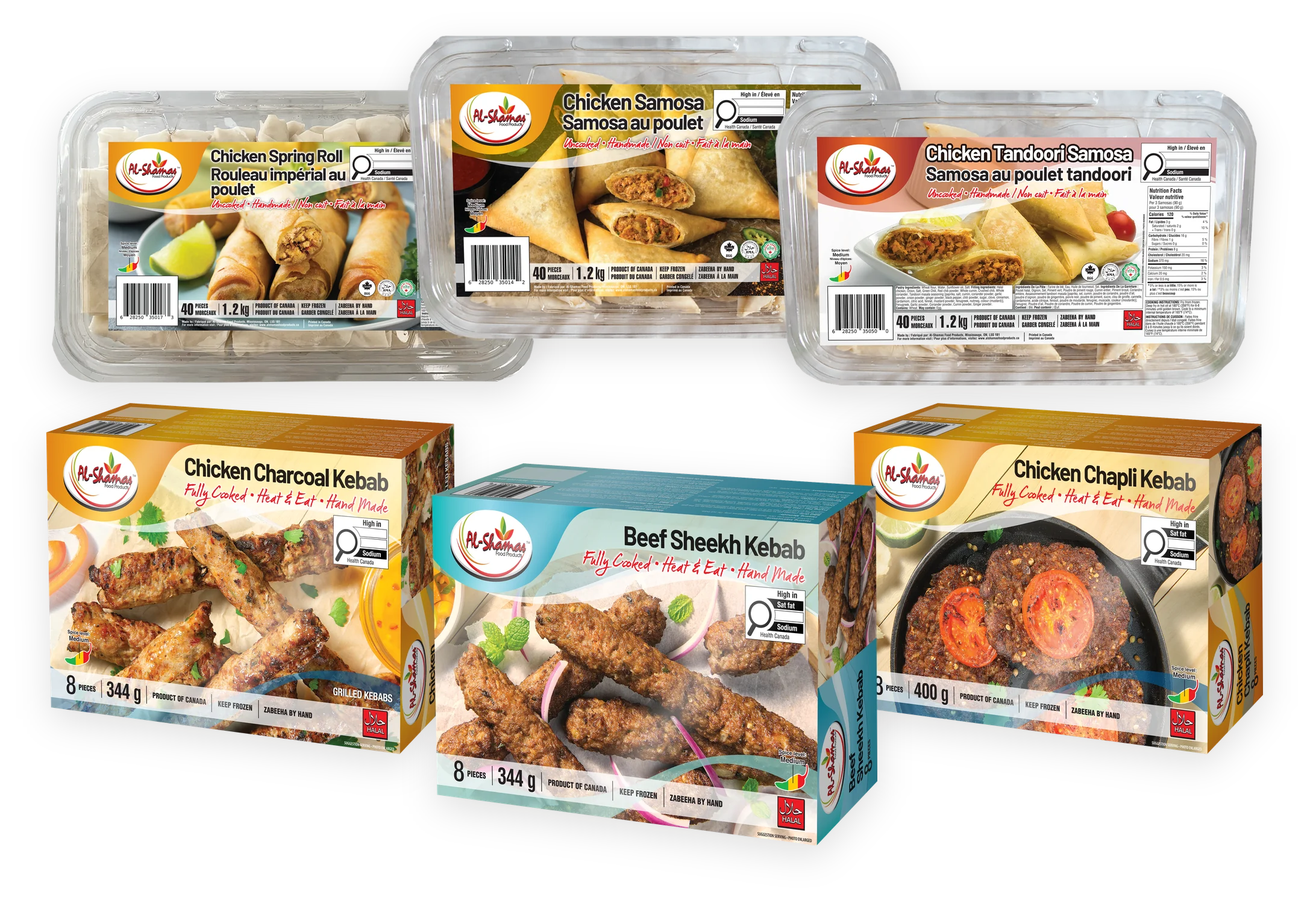
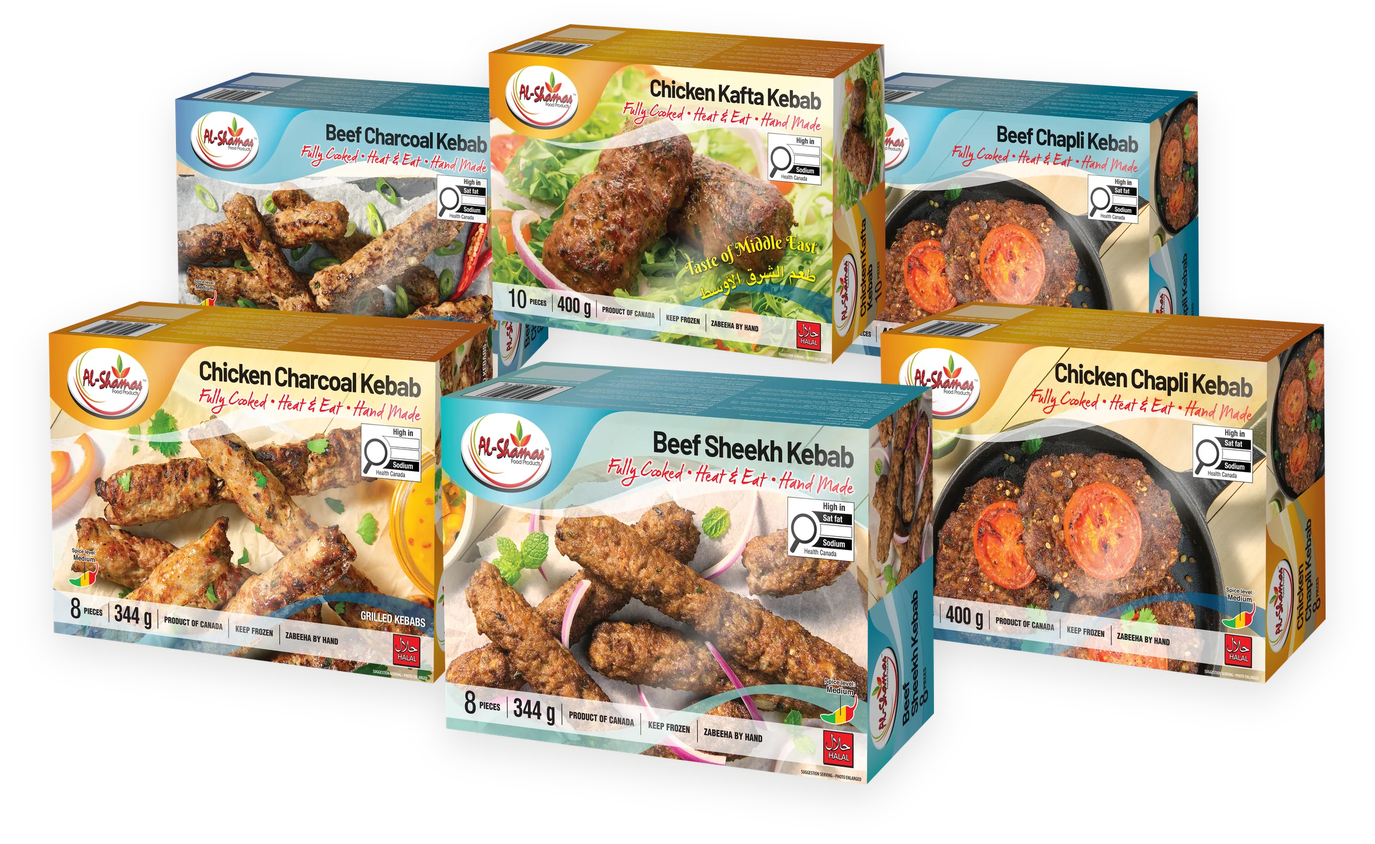
Home: light hero over kebab photo, kebab line-up, best-selling kebabs section
Claude-Session: https://claude.ai/code/session_01Qf9GJqPJBmu5kCAbb7o15f

diff --git a/src/pages/HomePage.tsx b/src/pages/HomePage.tsx
@@ -9,7 +9,7 @@ const DIFFICULTY_FR: Record<string, string> = { Easy: 'Facile', Medium: 'Moyen',
 // ONLY CHANGE: Hero banner now uses homebanner.png from images/products
 // Product line-up composed from the packaging photos (transparent background).
 const HERO_IMAGE = '/images/hero/hero-lineup.webp';
-const HERO_BG = '/images/recipes/chicken-samosa-platter-with-chutneys.jpg';
+const HERO_BG = '/images/recipes/chicken-kebab-rice-platter.jpg';
 
 interface HomePageProps {
   navigate: (path: string) => void;
@@ -48,53 +48,54 @@ const RETAILER_NAMES = [
   'Loblaws',
 ];
 
-const FEATURED_IDS = ['1', '4', '5', '8', '11', '12'];
+// Best sellers: kebabs (confirmed by Al-Shamas).
+const FEATURED_IDS = ['5', '4', '2', '1', '9', '8'];
 
 export default function HomePage({ navigate }: HomePageProps) {
-  const featured = PRODUCTS.filter(p => FEATURED_IDS.includes(p.id));
+  const featured = FEATURED_IDS.map(id => PRODUCTS.find(p => p.id === id)!).filter(Boolean);
   const recipes = RECIPES.slice(0, 4);
   const { lang, t } = useLang();
 
   return (
     <div className="min-h-screen">
       {/* Hero */}
-      <section className="relative lg:min-h-screen flex items-center overflow-hidden pt-28 lg:pt-24 bg-[#1c1410]">
+      <section className="relative lg:min-h-screen flex items-center overflow-hidden pt-28 lg:pt-24 bg-[#fff8f1]">
         {/* Background food photo + dark overlay */}
         <div
           className="absolute inset-0 bg-cover bg-center scale-105 blur-[2px]"
           style={{ backgroundImage: `url('${HERO_BG}')` }}
         />
-        <div className="absolute inset-0 bg-gradient-to-r from-[#1c1410]/95 via-[#1c1410]/80 to-[#1c1410]/45"></div>
+        <div className="absolute inset-0 bg-gradient-to-r from-[#fff8f1]/[0.96] via-[#fff8f1]/[0.88] to-[#fff8f1]/60"></div>
         <div className="absolute inset-x-0 bottom-0 h-1.5 bg-gradient-to-r from-brand-red via-brand-orange to-brand-green"></div>
 
         <div className="relative w-full max-w-7xl mx-auto px-4 sm:px-6 lg:px-8 py-12 lg:py-16 grid lg:grid-cols-[minmax(0,5fr)_minmax(0,6fr)] gap-10 lg:gap-6 items-center">
           <div className="max-w-xl">
-            <div className="inline-flex items-center gap-2 bg-white/10 border border-white/20 text-brand-orange-light text-xs font-semibold tracking-widest uppercase px-4 py-1.5 rounded-full mb-6">
+            <div className="inline-flex items-center gap-2 bg-brand-red-pale border border-brand-red/10 text-brand-red text-xs font-semibold tracking-widest uppercase px-4 py-1.5 rounded-full mb-6">
               <Star size={12} fill="currentColor" />
               {t('Canada’s Halal Frozen Foods', 'Aliments halal surgelés du Canada')}
             </div>
 
-            <h1 className="font-serif text-5xl sm:text-6xl font-bold text-white leading-[1.08] mb-6 drop-shadow">
+            <h1 className="font-serif text-5xl sm:text-6xl font-bold text-gray-900 leading-[1.08] mb-6">
               {lang === 'fr' ? (
                 <>
                   Aliments
                   <br />
-                  <span className="text-brand-red-light">halal</span> surgelés
+                  <span className="text-brand-red">halal</span> surgelés
                   <br />
-                  <span className="text-brand-orange-light">de qualité</span>
+                  <span className="text-brand-green">de qualité</span>
                 </>
               ) : (
                 <>
                   Canada's Premium
                   <br />
-                  <span className="text-brand-red-light">Halal</span> Frozen
+                  <span className="text-brand-red">Halal</span> Frozen
                   <br />
-                  <span className="text-brand-orange-light">Foods</span>
+                  <span className="text-brand-green">Foods</span>
                 </>
               )}
             </h1>
 
-            <p className="text-white/85 text-lg leading-relaxed mb-8">
+            <p className="text-gray-700 text-lg leading-relaxed mb-8">
               {t(
                 'Proudly Canadian since 2013. High-quality halal kebabs, samosas, spring rolls and other ready-to-cook products — made with carefully selected ingredients and authentic recipes, and free from artificial colours.',
                 'Fièrement canadien depuis 2013. Des kebabs, samosas, rouleaux impériaux et autres produits prêts à cuire halal de grande qualité — préparés à partir d’ingrédients soigneusement sélectionnés et de recettes authentiques, sans colorants artificiels.'
@@ -111,7 +112,7 @@ export default function HomePage({ navigate }: HomePageProps) {
 
               <button
                 onClick={() => navigate('/about-us')}
-                className="flex items-center gap-2 px-7 py-3.5 bg-white/10 text-white font-semibold rounded-full hover:bg-white/20 transition-all border border-white/30 text-sm backdrop-blur-sm"
+                className="flex items-center gap-2 px-7 py-3.5 bg-white text-gray-700 font-semibold rounded-full hover:bg-gray-50 transition-all border border-gray-200 text-sm shadow-sm"
               >
                 {t('About Us', 'À propos de nous')}
               </button>
@@ -127,17 +128,17 @@ export default function HomePage({ navigate }: HomePageProps) {
               ].map(({ icon: Icon, label, sub }) => (
                 <div
                   key={label}
-                  className="flex items-center gap-2 bg-white/10 border border-white/15 backdrop-blur-sm rounded-2xl px-3 py-2"
+                  className="flex items-center gap-2 bg-white/90 border border-white rounded-2xl px-3 py-2 shadow-sm"
                 >
-                  <div className="w-7 h-7 rounded-full bg-brand-orange/20 flex items-center justify-center">
-                    <Icon size={14} className="text-brand-orange-light" />
+                  <div className="w-7 h-7 rounded-full bg-brand-green-pale flex items-center justify-center">
+                    <Icon size={14} className="text-brand-green" />
                   </div>
 
                   <div>
-                    <div className="text-xs font-bold text-white leading-tight">
+                    <div className="text-xs font-bold text-gray-800 leading-tight">
                       {label}
                     </div>
-                    <div className="text-xs text-white/70 leading-tight">
+                    <div className="text-xs text-gray-600 leading-tight">
                       {sub}
                     </div>
                   </div>
@@ -148,12 +149,16 @@ export default function HomePage({ navigate }: HomePageProps) {
 
           {/* Product line-up */}
           <div className="relative flex items-center justify-center">
-            <div className="absolute w-[80%] aspect-square rounded-full bg-brand-orange/25 blur-3xl pointer-events-none"></div>
+            <div className="absolute w-[85%] aspect-square rounded-full bg-white/70 blur-3xl pointer-events-none"></div>
             <img
               src={HERO_IMAGE}
-              alt={t('Al-Shamas kebabs, samosas and spring rolls', 'Kebabs, samosas et rouleaux impériaux Al-Shamas')}
-              className="relative w-full max-w-[760px] h-auto drop-shadow-[0_25px_35px_rgba(0,0,0,0.45)]"
+              alt={t('Al-Shamas kebabs — our best sellers', 'Kebabs Al-Shamas — nos meilleurs vendeurs')}
+              className="relative w-full max-w-[760px] h-auto drop-shadow-[0_20px_30px_rgba(60,30,10,0.25)]"
             />
+            <div className="absolute top-2 left-2 sm:top-4 sm:left-4 flex items-center gap-1.5 bg-brand-red text-white text-xs sm:text-sm font-bold uppercase tracking-wide px-4 py-2 rounded-full shadow-lg rotate-[-4deg]">
+              <Star size={14} fill="currentColor" />
+              {t('Best Sellers: Our Kebabs', 'Nos meilleurs vendeurs : les kebabs')}
+            </div>
           </div>
         </div>
       </section>
@@ -204,17 +209,17 @@ export default function HomePage({ navigate }: HomePageProps) {
         <div className="max-w-7xl mx-auto px-4 sm:px-6 lg:px-8 relative">
           <div className="text-center mb-12">
             <div className="inline-block bg-brand-orange-pale text-brand-orange text-xs font-semibold tracking-widest uppercase px-4 py-1.5 rounded-full mb-3">
-              {t('Top Picks', 'Nos favoris')}
+              {t('Best Sellers', 'Meilleurs vendeurs')}
             </div>
 
             <h2 className="font-serif text-4xl font-bold text-gray-900 mb-3">
-              {t('Featured Products', 'Produits vedettes')}
+              {t('Our Best-Selling Kebabs', 'Nos kebabs les plus vendus')}
             </h2>
 
             <p className="text-gray-500 max-w-md mx-auto text-sm">
               {t(
-                'Our best-selling frozen favourites — made with halal ingredients and zero compromises.',
-                'Nos favoris surgelés les plus vendus — préparés avec des ingrédients halal, sans compromis.'
+                'Fully cooked, handmade and ready to heat and eat — the kebabs our customers love most.',
+                'Entièrement cuits, faits à la main et prêts à réchauffer — les kebabs préférés de nos clients.'
               )}
             </p>
           </div>
@@ -237,7 +242,7 @@ export default function HomePage({ navigate }: HomePageProps) {
 
                   {product.tags.includes('Bestseller') && (
                     <div className="absolute top-2 left-2 bg-brand-red text-white text-xs font-semibold px-2 py-0.5 rounded-full">
-                      {t('Bestseller', 'Populaire')}
+                      {t('Best Seller', 'Meilleur vendeur')}
                     </div>
                   )}
                 </div>

diff --git a/src/catalog.ts b/src/catalog.ts
@@ -284,6 +284,7 @@ export const PRODUCTS: Product[] = [
       fr: "Préparé à la main avec du poulet halal et un mélange d’épices, entièrement cuit — il suffit de réchauffer et de déguster."
     },
     tags: [
+      "Bestseller",
       "Halal",
       "Chicken",
       "Charcoal Grilled"
@@ -493,6 +494,7 @@ export const PRODUCTS: Product[] = [
       fr: "Préparé à la main avec du bœuf halal et un mélange d’épices, entièrement cuit — il suffit de réchauffer et de déguster."
     },
     tags: [
+      "Bestseller",
       "Halal",
       "Beef",
       "Charcoal Grilled"
@@ -1212,6 +1214,7 @@ export const PRODUCTS: Product[] = [
       fr: "Préparé à la main avec du bœuf halal et un mélange d’épices, entièrement cuit — il suffit de réchauffer et de déguster."
     },
     tags: [
+      "Bestseller",
       "Halal",
       "Beef"
     ],
@@ -1669,6 +1672,7 @@ export const PRODUCTS: Product[] = [
       fr: "Préparé à la main avec du bœuf halal et un mélange d’épices, entièrement cuit — il suffit de réchauffer et de déguster."
     },
     tags: [
+      "Bestseller",
       "Halal",
       "Beef"
     ],
@@ -1939,6 +1943,7 @@ export const PRODUCTS: Product[] = [
       fr: "Préparé à la main avec du poulet halal et un mélange d’épices, entièrement cuit — il suffit de réchauffer et de déguster."
     },
     tags: [
+      "Bestseller",
       "Halal",
       "Chicken"
     ],
@@ -2051,6 +2056,7 @@ export const PRODUCTS: Product[] = [
       fr: "Préparé à la main avec du bœuf halal et un mélange d’épices, entièrement cuit — il suffit de réchauffer et de déguster."
     },
     tags: [
+      "Bestseller",
       "Halal",
       "Beef"
     ],

diff --git a/src/components/PackCard.tsx b/src/components/PackCard.tsx
@@ -12,7 +12,7 @@ const TAG_FR: Record<string, string> = {
   Mutton: 'Mouton',
   'Charcoal Grilled': 'Grillé au charbon',
   Tandoori: 'Tandoori',
-  Bestseller: 'Populaire',
+  Bestseller: 'Meilleur vendeur',
   Vegetarian: 'Végétarien',
   'Peri Peri': 'Peri peri',
   Bread: 'Pain',
@@ -20,6 +20,7 @@ const TAG_FR: Record<string, string> = {
 
 // eslint-disable-next-line react-refresh/only-export-components
 export function tagLabel(tag: string, lang: 'en' | 'fr') {
+  if (tag === 'Bestseller') return lang === 'fr' ? 'Meilleur vendeur' : 'Best Seller';
   return lang === 'fr' ? TAG_FR[tag] ?? tag : tag;
 }
 
